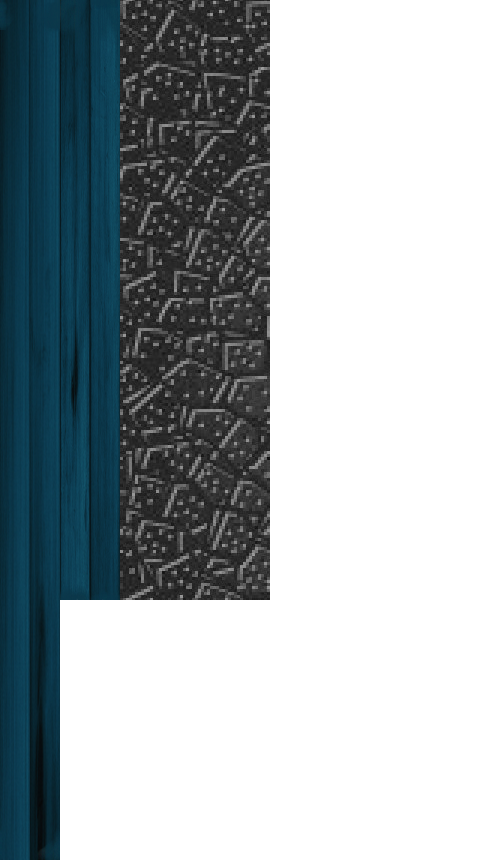
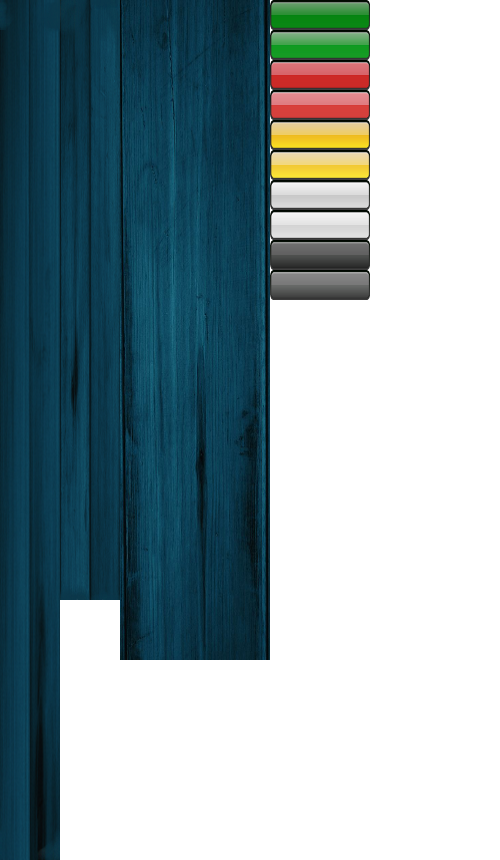
init

Changed region(s): [[0.24, 0.0, 0.75, 0.786]]

diff --git a/j.js b/j.js
@@ -79,12 +79,12 @@ Ar.prototype = {
         this.backImage.onload = function () {
             this.loaded = true;
             self.drawBackground();
+            self.createButtons();
+            self.drawButtons()
         };
 
         SPRITESHEET.src = SPRITESHEET_SRC;
         SPRITESHEET.onload = function () {
-
-            self.createButtons();
             requestAnimationFrame(self.animate);
             self.startNewGame();
         }
@@ -122,7 +122,15 @@ Ar.prototype = {
         }
 
         if (this.backImage.loaded && !this.backImage.rendered) {
-            this.bgContext.drawImage(this.backImage, SIDEBAR.left, SIDEBAR.top, SIDEBAR.width, SIDEBAR.height, PG_WIDTH + 2 * BORDER.size, 0, SIDEBAR.width, SIDEBAR.height);
+            this.bgContext.drawImage(this.backImage,
+                SIDEBAR.sprite.left,
+                SIDEBAR.sprite.top,
+                SIDEBAR.sprite.width,
+                SIDEBAR.sprite.height,
+                SIDEBAR.left,
+                SIDEBAR.top,
+                SIDEBAR.width,
+                SIDEBAR.height);
             this.backImage.rendered = true;
         }
     },
@@ -197,13 +205,11 @@ Ar.prototype = {
 
         obj = new Button('load');
         this.buttons.push(obj);
-
-        this.drawButtons();
     },
 
     drawButtons: function () {
         for (var i = 0; i < this.buttons.length; i++) {
-            this.buttons[i].draw(this.sidebarContext);
+            this.buttons[i].draw(this.bgContext);
         }
     },
 

diff --git a/const.js b/const.js
@@ -39,7 +39,7 @@ var BORDER = {
 
 var SIDEBAR = {
     width: 150,
-    height: 600,
+    height: 660,
     left: 860,
     top: 0,
     sprite: { top: 0, left: 120, width: 150, height: 600 }
@@ -137,35 +137,35 @@ var BRICK = {
 var BUTTONS = {
     types: ['start', 'pause', 'save', 'load'],
     start: {
-        left: 25,
+        left: 885,
         top: 10,
         height: 30,
         width: 100,
         label: 'Новая игра',
-        sprite: { left: 0, top: 40, width: 100, height: 30 }
+        sprite: { left: 270, top: 0, width: 100, height: 30 }
     },
     pause: {
-        left: 25,
+        left: 885,
         top: 50,
         height: 30,
         width: 100,
         label: 'Пауза (P)',
-        sprite: { left: 100, top: 40, width: 100, height: 30 }
+        sprite: { left: 270, top: 120, width: 100, height: 30 }
     },
     save: {
-        left: 25,
+        left: 885,
         top: 90,
         height: 30,
         width: 100,
         label: 'Сохранить',
-        sprite: { left: 200, top: 40, width: 100, height: 30 }
+        sprite: { left: 270, top: 180, width: 100, height: 30 }
     },
     load: {
-        left: 25,
+        left: 885,
         top: 130,
         height: 30,
         width: 100,
         label: 'Загрузить',
-        sprite: { left: 300, top: 40, width: 100, height: 30 }
+        sprite: { left: 270, top: 240, width: 100, height: 30 }
     }
 };

diff --git a/sprites.js b/sprites.js
@@ -200,7 +200,7 @@ var ButtonSprite = function (object, cell) {
 ButtonSprite.prototype = {
     draw: function (context) {
         var cell = this.cell;
-        context.drawImage(SPRITESHEET, cell.left, cell.top,
+        context.drawImage(ar.backImage, cell.left, cell.top,
             cell.width, cell.height,
             this.object.left, this.object.top,
             cell.width, cell.height);
